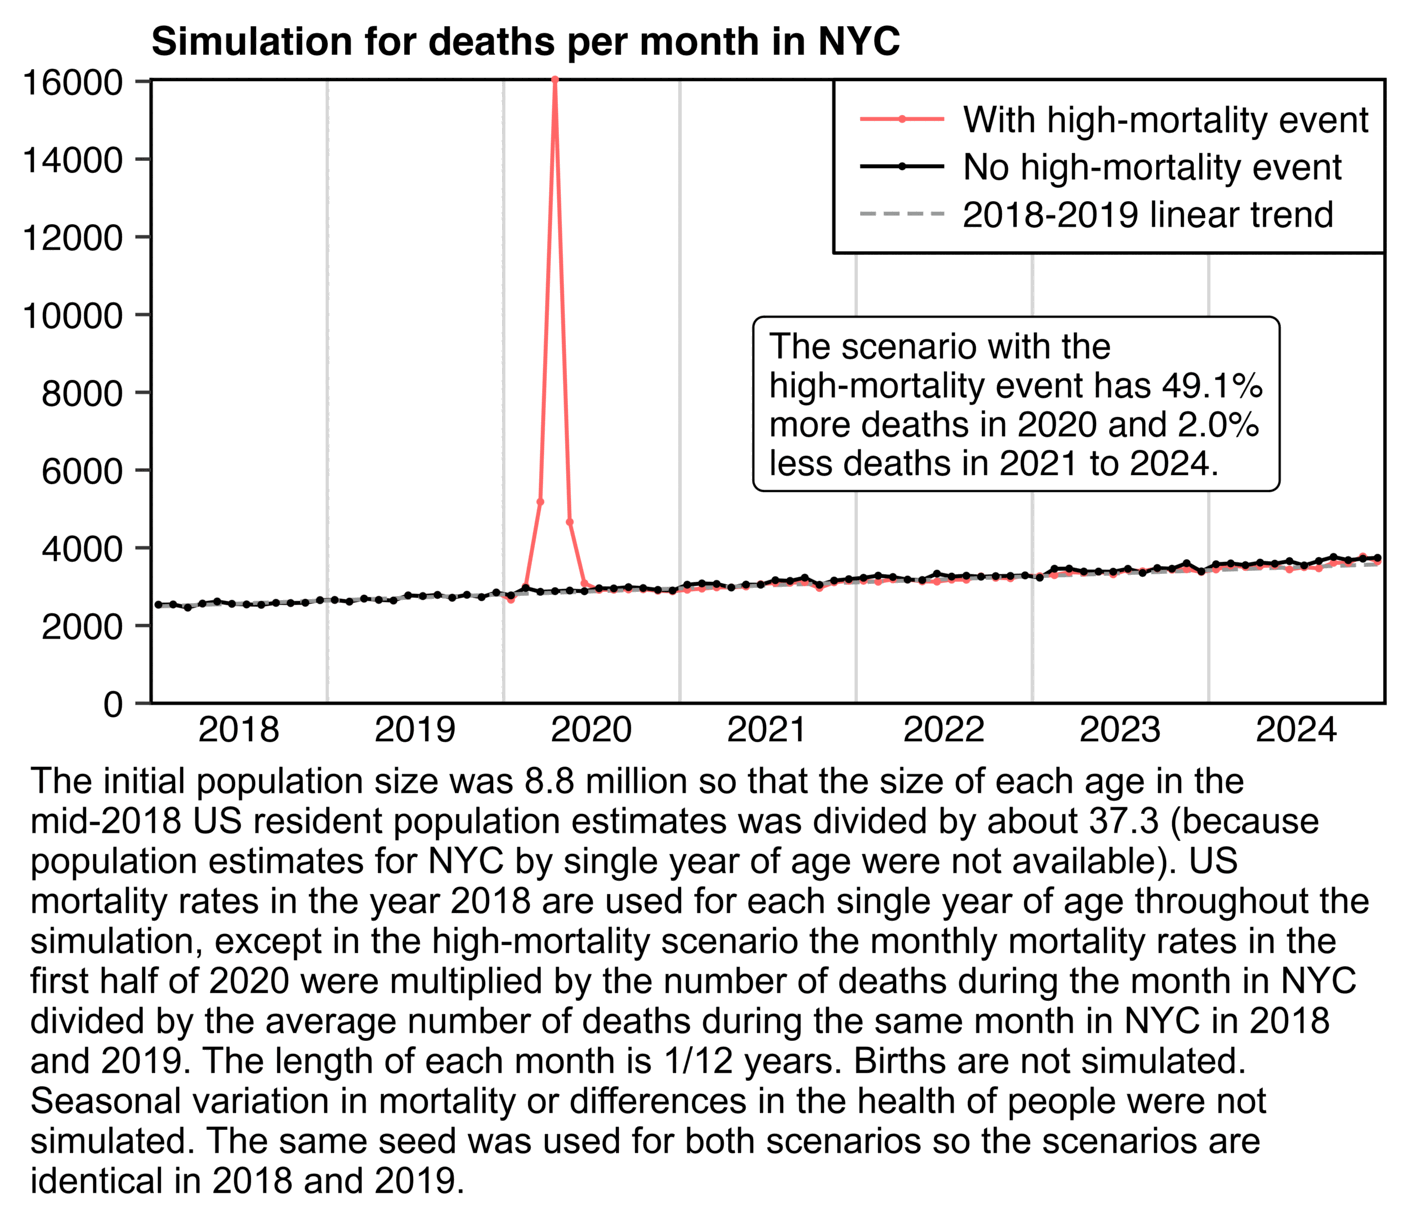
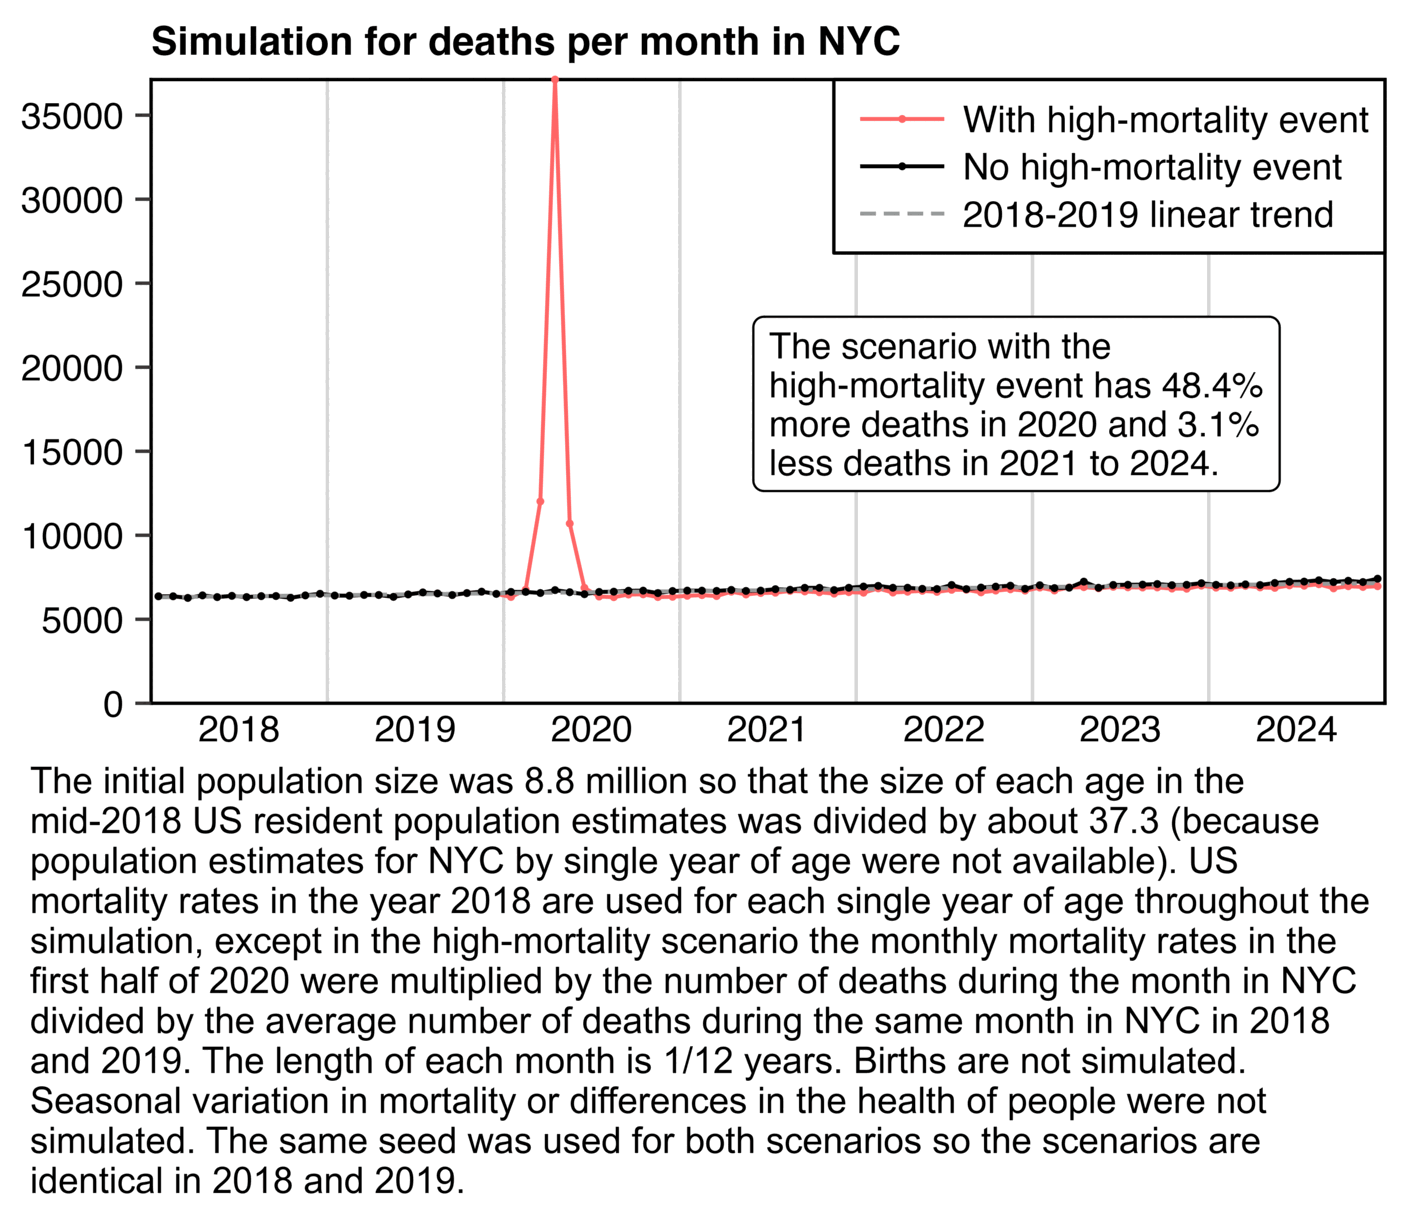
a

diff --git a/ethical.html b/ethical.html
@@ -18,7 +18,7 @@ table{border-collapse:collapse}
 td,th{border:1px solid #555;padding:2px 4px}
 th{background:#444;text-align:left;font-weight:bold}
 img{max-width:100%}
-blockquote{margin-left:0px;padding-left:40px;margin-right:0;overflow-x:hidden}
+blockquote{margin:0;padding-left:40px;overflow-x:hidden}
 blockquote p{max-width:480px}
 blockquote blockquote p{max-width:440px}
 blockquote blockquote blockquote p{max-width:400px}
@@ -80,6 +80,7 @@ blockquote blockquote blockquote,blockquote blockquote .quote,blockquote .quote 
 <li><a href=#Excess_deaths_from_natural_causes>Excess deaths from natural causes</a></li>
 <li><a href=#Deaths_from_pneunomia_with_unspecified_organism>Deaths from pneunomia with unspecified organism</a></li>
 <li><a href=#Is_there_still_excess_all_cause_mortality_in_2024>Is there still excess all-cause mortality in 2024?</a></li>
+<li><a href=#Should_the_PFE_adjustment_last_for_only_6_6_years>Should the PFE adjustment last for only 6.6 years?</a></li>
 </ul>
 
 <h2>
@@ -109,6 +110,12 @@ blockquote blockquote blockquote,blockquote blockquote .quote,blockquote .quote 
 <p>Ethical Skeptic posted a plot which he claimed showed deaths associated with <em>Mycoplasma pneuminae</em> in ages 0 to 54. But actually his plot included three ICD codes which were J15.7 (<span class="quote">&quot;Pneumonia due to Mycoplasma pneumoniae&quot;</span>), J20.0 (<span class="quote">&quot;Acute bronchitis due to Mycoplasma pneumoniae&quot;</span>), and J18 (<span class="quote">&quot;Pneumonia, organism unspecified&quot;</span>). And the two ICD codes associated with <em>Mycoplasma pneumoniae</em> had close to zero total deaths but J18 accounted for about 99.8% to 99.9% of all deaths in his plot, so actually his plot showed deaths from pneumonia with unspecified organism.</p>
 <p>In the plot his baseline was pointed too much downwards because he fitted the baseline using only data from 2018 and 2019 and there was a low number of deaths in 2019.</p>
 <p>Ethical Skeptic claimed that he got about 40% excess deaths relative to his PFE-adjusted baseline, but when I did queries for deaths with MCD J18 but not MCD COVID, I got only about 11% excess deaths even in 2023 relative to a 2010-2019 linear baseline. And I got about 15% excess UCD deaths in 2020, 3% in 2021, -1% in 2022, and 3% in 2023, so the excess UCD deaths were by far the highest in 2020. There was a huge increase in deaths with MCD J18 during COVID waves, and even after excluding deaths that also had MCD COVID, the MCD J18 deaths were still elevated during COVID waves. So I believe most of Ethical Skeptic's excess deaths are explained by COVID deaths, his baseline that pointed too much downwards, and his PFE adjustment of the baseline. It's questionable if PFE adjustment should even be applied to younger age groups, because were there really that many people in ages 0 to 54 who were on the verge of death so they would've died soon anyway if they hadn't died of COVID in 2020?</p>
+<p><b><u>Should the PFE adjustment last for only 6.6 years?</b></u></p>
+<p>Ethical Skeptic applies the PFE adjustment to the baseline for only a duration of 6.6 years, because he calculated that at some point the average age of COVID deaths in Florida was 82 years, and he got a life expectancy of 6.6 years for age 82 from some unspecified source. However the life expectancy for age 82 was about 8.2 years in the 2019 US life table. And at CDC WONDER the average age of UCD COVID deaths was about 73.8 in Florida and about 73.9 in the whole US.</p>
+<p>When I took the life expectancies for each age from the 2019 US life table and I calculated their average weighted by the number of UCD COVID deaths for each age at CDC WONDER, the resulting life expectancy was about 14.5 years.</p>
+<p>It might be that people who died from COVID had lower life expectancy than the average life expectancy for each age, but if we assume that 14.5 years was the average life expectancy of people who died from COVID, then even 14.5 years later there would still be many people who would be alive if they hadn't died of COVID. So the duration of the PFE adjustment should probably be much longer than 6.6 years, which would also cause the maximum depth of the PFE adjustment to be much lower.</p>
+<p>I did a simulation with two scenarios, where in both scenarios the population started out as one tenth of the mid-2018 US resident population estimates. In both scenarios people had the 2018 mortality rates throughout the simulation, except in the other scenario I introduced a COVID event by multiplying the mortality rates in 2020 and 2021 to match the pattern of excess deaths in the United States. But the COVID scenario got only about 2.1% less deaths in 2022-2024 than the scenario without the COVID event.</p>
+<p>However in the COVID scenario, the number of deaths in 2024 was higher than a linear baseline fitted against deaths in 2018-2019. The long-term trend in raw deaths is curved upwards due to the aging population, so in addition to adjusting his baseline downwards to account for PFE, Ethical Skeptic should also adjust his baseline upwards to account for the aging population. And by 2023 or 2024 the upward adjustment might even need to be bigger than the downward adjustment.</p>
 <h2>
 <a href=#Plot_for_cardiac_deaths_in_ages_0_to_54 id=Plot_for_cardiac_deaths_in_ages_0_to_54>Plot for cardiac deaths in ages 0 to 54</a>
 </h2>
@@ -3131,6 +3138,135 @@ system(&quot;magick 1.png -resize 25% -colorspace Gray -colors 16 1.png&quot;)</
 <div class="width7">
 <img src="i/ethical-allcause-5.png">
 </div>
+<h2>
+<a href=#Should_the_PFE_adjustment_last_for_only_6_6_years id=Should_the_PFE_adjustment_last_for_only_6_6_years>Should the PFE adjustment last for only 6.6 years?</a>
+</h2>
+<p>Ethical Skeptic wrote: <span class="quote">&quot;The <a href=https://theethicalskeptic.com/wp-content/uploads/2024/02/PFE-Arrival-Function-2.png>function we currently use for PFE</a> is described by 6.6 years (345 weeks - April 2021 - Oct 2027) of Chi-squared arrival, with an anticipated <em>x_mode</em> (function peak) of mid-late 2023 at 6.02% of Excess Non-Covid Natural Cause Mortality.&quot;</span> [<a href="https://theethicalskeptic.com/2024/11/20/the-state-of-things-pandemic/">https://theethicalskeptic.com/2024/11/20/the-state-of-things-pandemic/</a>] And he linked this image:</p>
+<div class="width4">
+<img src="i/np-bergamo-pfe-arrival.png">
+</div>
+<p>Ethical Skeptic came up with the figure of 6.6 years because he said the average age of COVID deaths in Florida was 82, and he got a life expectancy of 6.6 years for age 82 from some unspecified source (even though in the 2019 US life expectancy table the life expectancy for age 82 is about 8.2 years): [<a href="https://theethicalskeptic.com/2024/11/20/the-state-of-things-pandemic/">https://theethicalskeptic.com/2024/11/20/the-state-of-things-pandemic/</a>]</p>
+<div class="width7">
+<img src="i/np-bergamo-bergamo-pfe-arrival-2.png">
+</div>
+<p>At CDC WONDER the average age of UCD COVID deaths was 73.8 in Florida and about 73.9 in the whole US. And in the 2019 life table the life expectancy for age 74 is about 13.1 years, so it's about twice as high as Ethical Skeptic's figure of 6.6 years. And the average of life expectancies for each age weighted by the number of COVID deaths for the age was about 14.5 years:</p>
+<pre># 2019 life expectancy table for both sexes combined
+download.file(&quot;https://ftp.cdc.gov/pub/Health_Statistics/NCHS/Publications/NVSR/70-19/Table01.xlsx&quot;,&quot;Table01.xlsx&quot;)
+ex=read_excel(&quot;Table01.xlsx&quot;,skip=2,n_max=101)$ex
+
+# UCD COVID deaths by single year of age from CDC WONDER (last value is age 100 and above)
+coviddead=c(363,116,46,41,39,30,38,32,33,47,40,35,41,56,51,97,88,130,162,210,255,288,367,407,499,530,620,707,819,979,1112,1255,1329,1441,1607,1703,1850,2066,2237,2502,2713,2987,3253,3486,3942,4197,4610,4912,5686,6278,7075,7365,8017,8227,8942,9822,11084,11748,12866,14070,15174,16061,17259,18347,19229,20037,20443,20874,22012,22623,23586,24446,25783,27417,27760,26024,26237,27531,28188,27690,27437,27093,27200,27223,26753,26849,26190,25121,24827,24104,22756,21336,19309,17787,15069,12656,10416,8337,6321,4626,8773)
+
+weighted.mean(ex,coviddead) # 14.50457</pre>
+<p>The following code shows the average life expectancy by month of death for deaths with UCD COVID. I now calculated the life expectancy separately for males and females even though it didn't make much difference. CDC WONDER suppresses the number of deaths on rows with less than 10 deaths, so I got the number of COVID deaths from the fixed-width files for the NVSS data instead: <a href=stat.html#Download_fixed_width_and_CSV_files_for_the_NVSS_data_used_at_CDC_WONDER>stat.html#Download_fixed_width_and_CSV_files_for_the_NVSS_data_used_at_CDC_WONDER</a>. The life expectancy was unsurprisingly much higher in 2021 than 2020 (which is because the percentage of COVID deaths in 2021 relative to 2020 is much higher in working-age people than in elderly people, which might be because in 2021 working-age people were less likely to be vaccinated than elderly people):</p>
+<pre>dlf=\(x,y=sub(&quot;.*/&quot;,&quot;&quot;,x),...)for(i in 1:length(x))download.file(x[i],y[i],quiet=T,...)
+dlf(paste0(&quot;https://ftp.cdc.gov/pub/Health_Statistics/NCHS/Publications/NVSR/70-19/Table0&quot;,2:3,&quot;.xlsx&quot;))
+
+ex=data.table(age=0:100,sex=rep(c(&quot;M&quot;,&quot;F&quot;),each=101))
+ex$ex=c(sapply(2:3,\(i)read_excel(paste0(&quot;Table0&quot;,i,&quot;.xlsx&quot;),skip=2,n_max=101)$ex))
+
+t=do.call(rbind,lapply(2020:2022,\(x)fread(paste0(x,&quot;.csv.gz&quot;))))
+a=t[age!=9999&amp;ucod==&quot;U071&quot;,.N,.(year,month=monthdth,sex,age=pmin(100,ifelse(age&lt;2000,age-1000,0)))]
+
+merge(ex,a)[,weighted.mean(ex,N),.(year,month)][,xtabs(round(V1)~year+month)]
+#       month
+# year    1  2  3  4  5  6  7  8  9 10 11 12
+#   2020 18 19 15 13 12 14 15 14 13 12 12 12
+#   2021 13 14 15 17 18 18 19 19 19 18 17 17
+#   2022 15 14 14 14 12 12 12 12 11 11 11 11</pre>
+<p>In the next plot I simulated two scenarios, where in both scenarios the population started out as one tenth of the mid-2018 US resident population estimates. In both scenarios people had the 2018 mortality rates throughout the simulation, except in the other scenario I introduced a COVID event by multiplying the mortality rates in 2020 and 2021 to match the pattern of excess deaths in the United States. But the COVID scenario got only about 1.4% less deaths in 2023-2024 than the scenario without the COVID event:</p>
+<div class="width6">
+<img src="i/ethical-sim.png">
+</div>
+<div class="spoiler">
+<button>
+Show code
+</button><pre>library(data.table);library(ggplot2)
+
+t=fread(&quot;http://sars2.net/f/uspopdeadmonthly.csv&quot;)[year%in%2011:2021]
+std=fread(&quot;https://www2.census.gov/programs-surveys/popest/datasets/2020-2023/national/asrh/nc-est2023-agesex-res.csv&quot;)
+a=merge(std[SEX==0,.(age=AGE,std=ESTIMATESBASE2020)][,std:=std/sum(std)],t)
+a=a[,.(asmr=sum(dead/persondays*365e5*std)),.(year,month,date)][,x:=1:.N]
+a$base=a[year&lt;2020&amp;month%in%4:9,predict(lm(asmr~x),a)]
+a=merge(a[year&lt;2020,.(monthly=mean(asmr-base)),month],a)[order(date)]
+
+simmonths=12*7
+monthmult=rep(1,simmonths);monthmult[25:48]=a[year%in%2020:2021,asmr/(base+monthly)]
+
+pop=fread(&quot;http://sars2.net/f/uspopdead.csv&quot;)[year==2018]
+cmr=pop[,dead/pop]/12
+
+people=data.table(age=pop[,rep(age,pop/10)])[,age:=age+runif(.N)]
+
+sim=data.table(month=1:simmonths,dead=0,dead2=0)
+people2=copy(people)
+
+set.seed(0)
+for(i in 1:simmonths){
+  died=people[,rbinom(.N,1,pmin(1,cmr[age+1]*monthmult[i]))]
+  people=people[died!=1][,age:=pmin(100,age+1/12)]
+  sim$dead[i]=sum(died)
+}
+
+set.seed(0)
+for(i in 1:simmonths){
+  died=people2[,rbinom(.N,1,pmin(1,cmr[age+1]))]
+  people2=people2[died!=1][,age:=pmin(100,age+1/12)]
+  sim$dead2[i]=sum(died)
+}
+
+sim$base=sim[month&lt;25,predict(lm(dead~month),sim)]
+lab=c(&quot;With high-mortality event&quot;,&quot;No high-mortality event&quot;,&quot;2018-2019 linear trend&quot;)
+p=sim[,.(x=month,y=unlist(.SD[,-1]),z=factor(rep(lab,each=.N),lab))]
+
+sum=sim[month%in%25:48,colSums(.SD)]
+sum2=sim[month&gt;48,colSums(.SD)]
+note=stringr::str_wrap(sprintf(&quot;The scenario with the high-mortality event has %.1f%% more deaths in 2020-2021 and %.1f%% less deaths in 2022-2024.&quot;,(sum[2]/sum[3]-1)*100,(sum2[3]/sum2[2]-1)*100),32)
+
+xstart=1;xend=simmonths+1;xbreak=seq(xstart,xend,6);xlab=c(rbind(&quot;&quot;,2018:2024),&quot;&quot;)
+ybreak=pretty(c(0,p$y),8);ystart=0;yend=max(p$y)+.02
+
+ggplot(p,aes(x+.5,y))+
+geom_vline(xintercept=seq(xstart,xend,12),linewidth=.3,color=&quot;gray83&quot;,lineend=&quot;square&quot;)+
+geom_hline(yintercept=c(ystart,yend),linewidth=.3,lineend=&quot;square&quot;)+
+geom_vline(xintercept=c(xstart,xend),linewidth=.3,lineend=&quot;square&quot;)+
+geom_line(aes(color=z,linetype=z),linewidth=.35)+
+geom_point(aes(color=z,alpha=z),stroke=0,size=.7)+
+labs(title=&quot;Simulation for deaths per month in United States&quot;,x=NULL,y=NULL)+
+annotate(geom=&quot;label&quot;,x=42,y=yend*.48,label=note,hjust=0,label.r=unit(2,&quot;pt&quot;),label.padding=unit(3,&quot;pt&quot;),label.size=.2,size=2.4,lineheight=.9)+
+scale_x_continuous(limits=c(xstart,xend),breaks=xbreak,labels=xlab)+
+scale_y_continuous(limits=c(ystart,yend),breaks=ybreak)+
+scale_color_manual(values=c(&quot;#ff6666&quot;,&quot;black&quot;,&quot;gray60&quot;))+
+scale_alpha_manual(values=c(1,1,0))+
+scale_linetype_manual(values=c(&quot;solid&quot;,&quot;solid&quot;,&quot;42&quot;))+
+coord_cartesian(clip=&quot;off&quot;,expand=F)+
+theme(axis.text=element_text(size=7,color=&quot;black&quot;),
+  axis.ticks=element_line(linewidth=.3),
+  axis.ticks.length=unit(3,&quot;pt&quot;),
+  axis.ticks.length.x=unit(0,&quot;pt&quot;),
+  legend.direction=&quot;vertical&quot;,
+  legend.justification=c(0,0),
+  legend.key=element_blank(),
+  legend.key.height=unit(9,&quot;pt&quot;),
+  legend.key.width=unit(20,&quot;pt&quot;),
+  legend.background=element_rect(color=&quot;black&quot;,linewidth=.3),
+  legend.margin=margin(3,3,3,3),
+  legend.position=c(0,0),
+  legend.spacing.x=unit(1.5,&quot;pt&quot;),
+  legend.spacing.y=unit(0,&quot;pt&quot;),
+  legend.text=element_text(size=7),
+  legend.title=element_blank(),
+  panel.background=element_blank(),
+  plot.margin=margin(4,4,2,4),
+  plot.title=element_text(size=7.5,face=&quot;bold&quot;,margin=margin(1,,3)))
+ggsave(&quot;1.png&quot;,width=3.7,height=2,dpi=380*4)
+sub=paste0(&quot;The initial population size of each age was one tenth of the mid-2018 US resident population estimates, so the total initial population size was about 33 million people. US mortality rates in the year 2018 were used for each age throughout the simulation, except in the red scenario the mortality rates in 2020 and 2021 were multiplied by the US ASMR each month divided by the baseline ASMR.&quot;)
+sub=paste0(sub,&quot; The length of each month is 1/12 years. Births are not simulated. Seasonal variation in mortality or differences in the health of people were not simulated. The same seed was used for both scenarios so the scenarios are identical in 2018 and 2019.&quot;)
+system(paste0(&quot;mar=120;w=`identify -format %w 1.png`;magick 1.png \\( -size $[w-mar*2]x -font Arial -interline-spacing -4 -pointsize 146 caption:&#39;&quot;,gsub(&quot;&#39;&quot;,&quot;&#39;\\&#39;&quot;,sub),&quot;&#39; -gravity southwest -splice $[mar]x70 \\) -append -resize 25% -colors 256 1.png&quot;))</pre>
+</div>
+<p>However from the plot above you can see that even in the red COVID scenario, the number of deaths in 2024 was higher than the linear baseline fitted against deaths in 2018-2019. I used the 2018 mortality rates throughout the simulation, even though in reality the elderly age groups which account for most deaths had a decreasing trend in mortality rate before COVID. Younger age groups had an increasing trend in mortality rate before COVID largely because of the opioid epidemic, even though younger age groups don't have much effect on the overall number of deaths.</p>
+<p>But anyway, in Ethical Skeptic's plots which display weekly excess deaths from 2018 onwards, he fits a linear baseline against deaths from only 2018 and 2019. However his baseline is often too low especially in 2023 and 2024, because the long-term trend in deaths is curved upwards due to the aging population, so in addition to adjusting his baseline downwards to account for the PFE, he should also adjust his baseline upwards to account for the aging population.</p>
+<p>When I did similar simulations for Bergamo and NYC, the deaths in the COVID scenario were subsequently reduced by only about 3.4% in Bergamo and 3.1% in NYC: <a href=nopandemic2.html#Should_NYC_and_Bergamo_have_reduced_deaths_due_to_a_pull_forward_effect>nopandemic2.html#Should_NYC_and_Bergamo_have_reduced_deaths_due_to_a_pull_forward_effect</a>.</p>
 <script>
 let q=document.querySelectorAll('a,code,pre')
 for(let i=0;e=q[i];i++)e.innerHTML=e.innerHTML.replace(/(\w{60,})/g,x=>x.replace(/./g,'$&<wbr>')).replace(/([\041-\045\047-\057\072\075\077-\100\133-\137\173-\176])/g,'$1<wbr>')

diff --git a/nopandemic2.html b/nopandemic2.html
@@ -18,7 +18,7 @@ table{border-collapse:collapse}
 td,th{border:1px solid #555;padding:2px 4px}
 th{background:#444;text-align:left;font-weight:bold}
 img{max-width:100%}
-blockquote{margin-left:0px;padding-left:40px;margin-right:0;overflow-x:hidden}
+blockquote{margin:0;padding-left:40px;overflow-x:hidden}
 blockquote p{max-width:480px}
 blockquote blockquote p{max-width:440px}
 blockquote blockquote blockquote p{max-width:400px}
@@ -320,7 +320,7 @@ theme(axis.text=element_text(size=7,color=&quot;black&quot;),
 ggsave(&quot;1.png&quot;,width=5.8,height=4,dpi=380*4)
 system(&quot;magick 1.png -resize 25% -colors 256 1.png&quot;)</pre>
 </div>
-<p>Here when I divided the number of excess deaths on weeks 9 to 19 of 2020 with the resident population estimate on January 1st 2020, it was about 7.2% in ages 90+, but it was only about 4.6% in ages 85-89 and about 2.9% in ages 80-84:</p>
+<p>Here when I divided the number of excess deaths on weeks 9 to 19 of 2020 with the resident population estimate on January 1st 2020, it was about 7% in ages 90+ but only about 5% in ages 85-89 and 3% in ages 80-84:</p>
 <pre>euro=fread(&quot;estat_demo_r_mweek3.tsv.gz&quot;,na=&quot;:&quot;)
 meta=fread(text=euro[[1]],header=F)
 euro=cbind(meta[,.(age=V4)],euro[,-1])[meta[,V3==&quot;T&quot;&amp;V5==&quot;ITC46&quot;&amp;!V4%in%c(&quot;TOTAL&quot;,&quot;Y_GE85&quot;,&quot;UNK&quot;)]]
@@ -401,7 +401,7 @@ p=sim[,.(x=month,y=unlist(.SD[,-1]),z=factor(rep(lab,each=.N),lab))]
 
 sum=sim[month%in%25:36,colSums(.SD)]
 sum2=sim[month&gt;36,colSums(.SD)]
-note=stringr::str_wrap(sprintf(&quot;The scenario with the high-mortality event has %.1f%% more deaths in 2021 and %.1f%% less deaths in 2021 to 2024.&quot;,(sum[2]/sum[3]-1)*100,(sum2[3]/sum2[2]-1)*100),32)
+note=stringr::str_wrap(sprintf(&quot;The scenario with the high-mortality event has %.1f%% more deaths in 2020 and %.1f%% less deaths in 2021 to 2024.&quot;,(sum[2]/sum[3]-1)*100,(sum2[3]/sum2[2]-1)*100),32)
 
 xstart=1;xend=simmonths+1;xbreak=seq(xstart,xend,6);xlab=c(rbind(&quot;&quot;,2018:2024),&quot;&quot;)
 ybreak=pretty(c(0,p$y),8);ystart=0;yend=max(p$y)+.02
